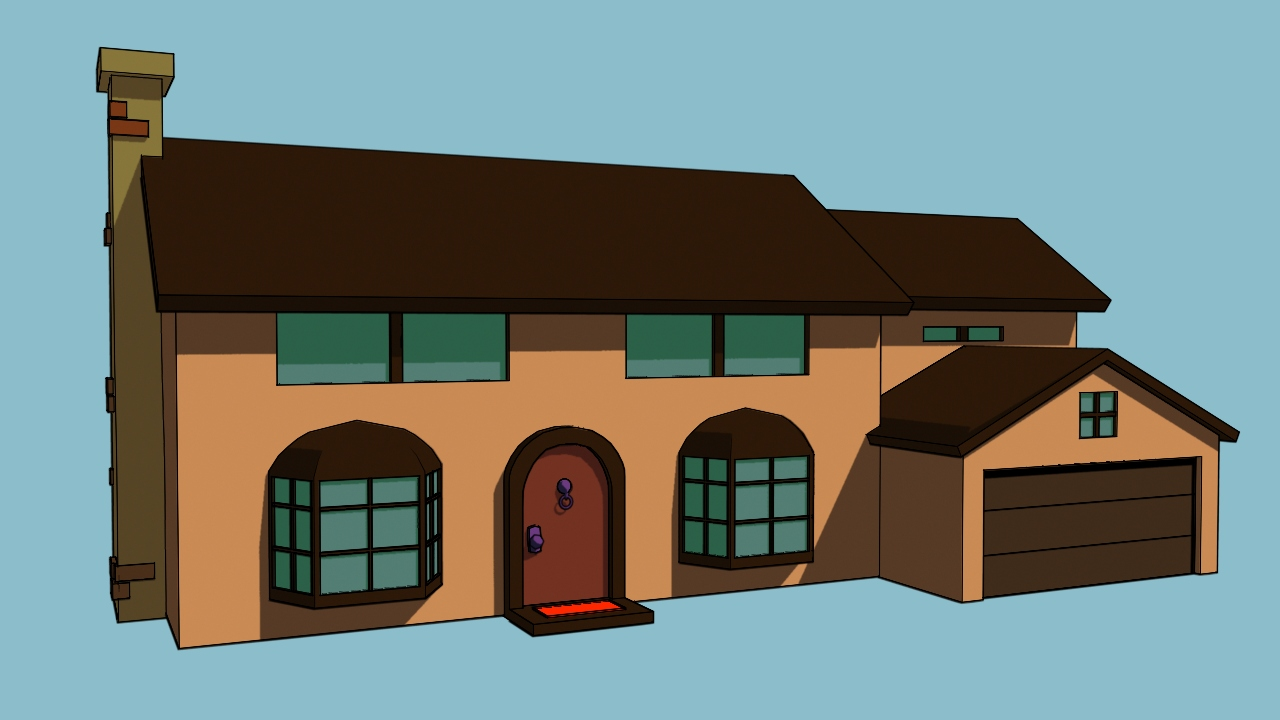
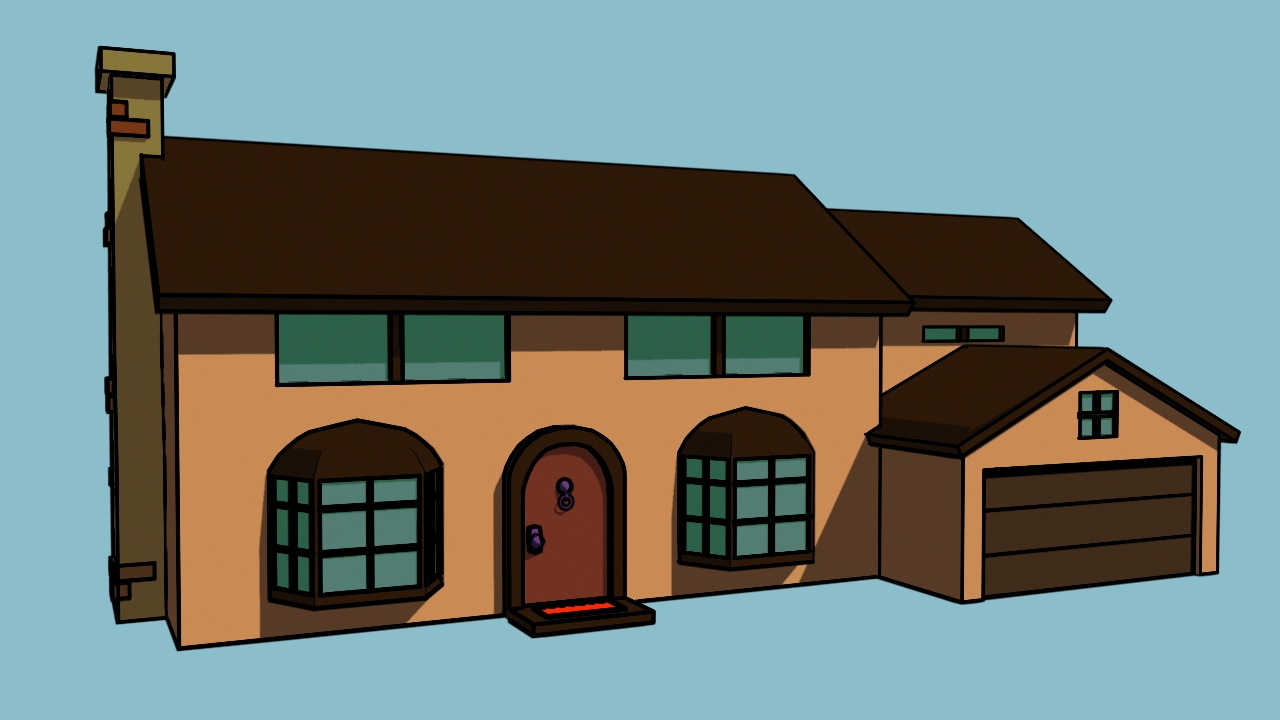
CL-000035
-Split Simpsons House into 2 boxes in order to showcase both the model and the full render
-added thumbnail for shaderless Simpsons House
-updated Simpsons House Render with better outlining and Render color

diff --git a/gerardo-portfolio.html b/gerardo-portfolio.html
@@ -506,6 +506,7 @@
 	</div>
 
 	<div class="row">
+		<!-- Video Games - Row 1 -->-->
 		<div class="columnside">
 			<p></p>
 		</div>
@@ -533,6 +534,7 @@
 	</div>
 
 	<div class="row">
+		<!-- Video Games - Row 2-->
 		<div class="columnside">
 			<p></p>
 		</div>
@@ -630,14 +632,21 @@
 	</div>
 
 	<div class="row">
+		<!-- 3D Art - Row 3-->
 		<div class="columnside">
 			<p></p>
 		</div>
-		<!-- Simpsons House -->
+		<!-- Simpsons House - Shaderless -->
 		<div class="columnmiscbox" style="padding-top:0px; object-fit:contain; padding-right:2%;">
-			<img src="images-misc/Simpson House Render.jpg"
-				style="padding-top:0px; height:37.3vh; width:100%; object-fit:cover;" class="hover-shadow cursor"
+			<img src="images-misc/Simpson House - No Shaders.png"
+				style="padding-top:0px; height:37.3vh; width:18.2vw; object-fit:cover;" class="hover-shadow cursor"
 				onclick='Open3DModal(`./models/SimpsonsHouse.glb`, `The Simpsons House`, `Originally modeled with a Toon shader in Maya.`);'>
+		</div>
+		<!-- Simpsons House Render -->
+		<div class="columnmiscbox" style="padding-top:0px; object-fit:contain; padding-right:2%; padding-left:2%;">
+			<img src="images-misc/Simpson House Render.jpg"
+				style="padding-top:0px; height:37.3vh; width:18.2vw; object-fit:cover;" class="hover-shadow cursor"
+				onclick='Open2DModal(this.src, `The Simpsons House`, `Using Maya Toon Shaders to achieve as close to a 2D appearance as possible.`);'>
 		</div>
 
 		<div class="columnside">
